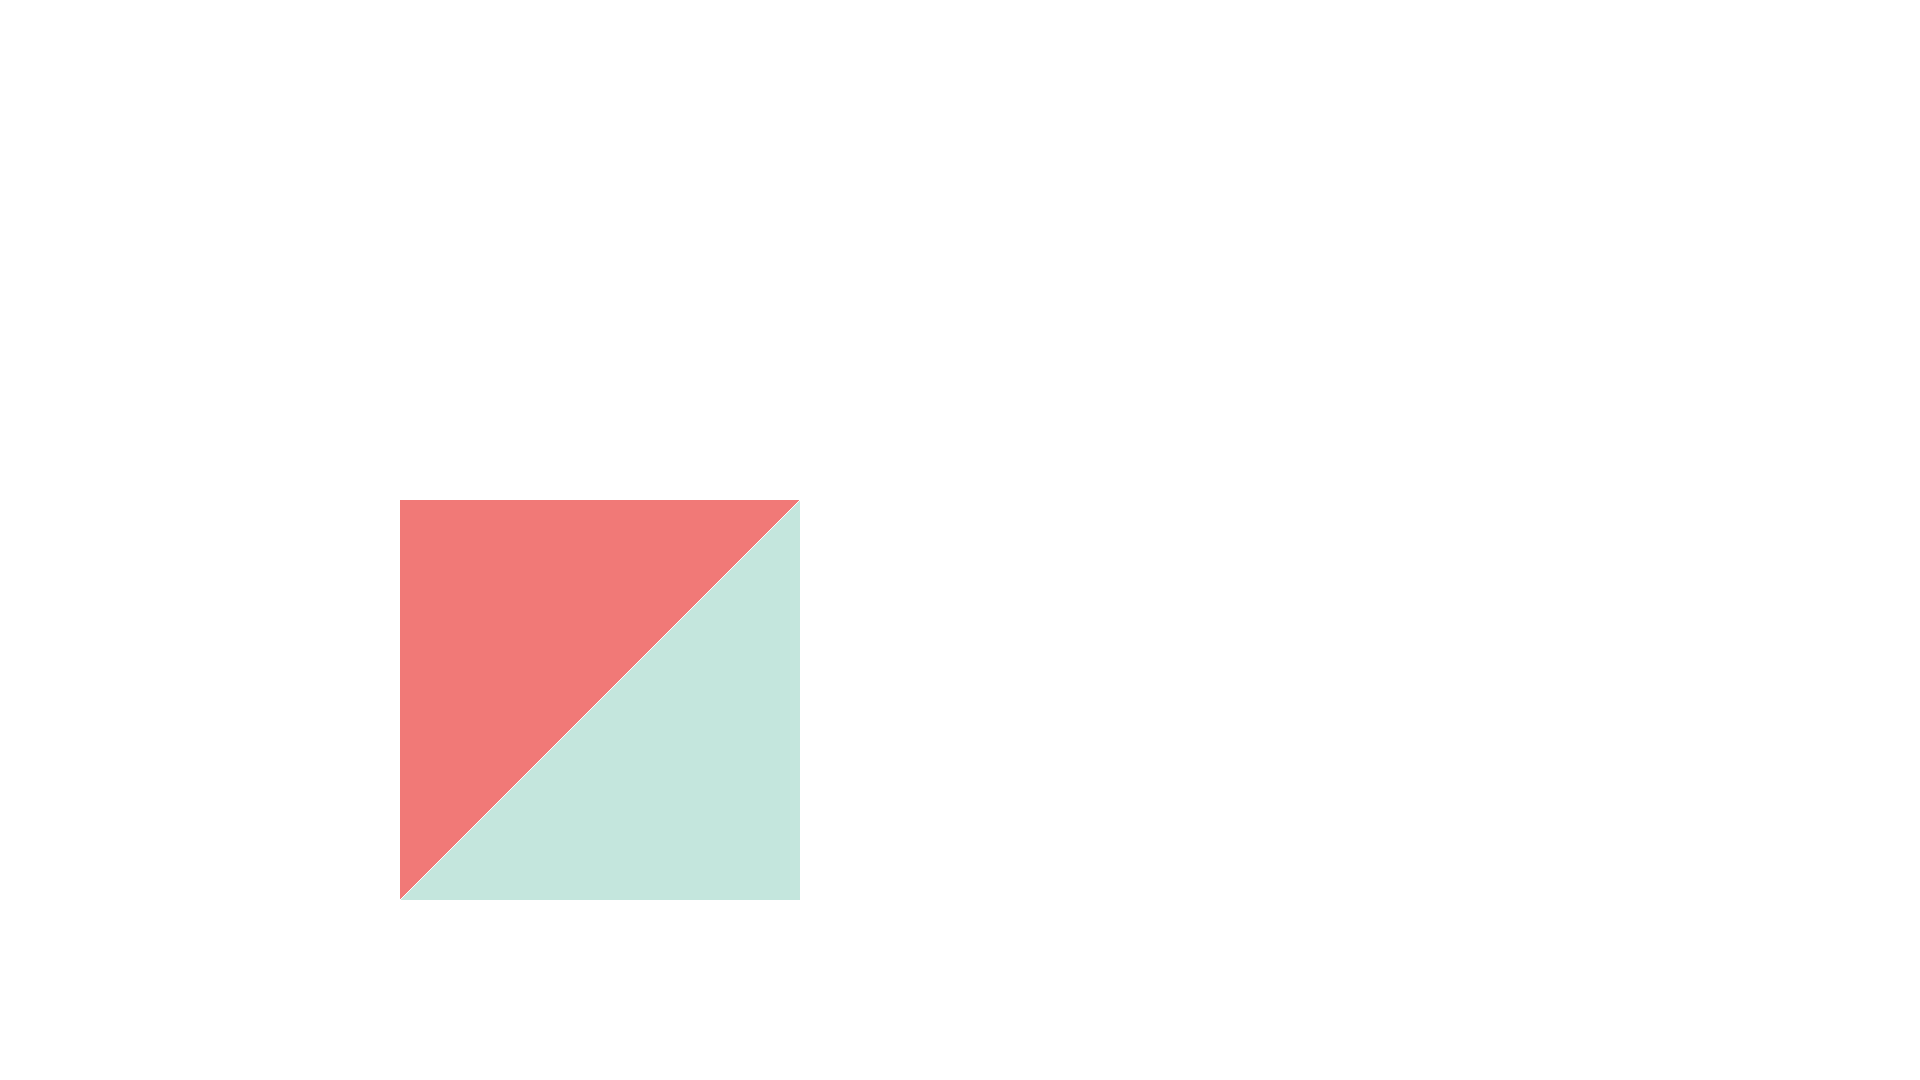
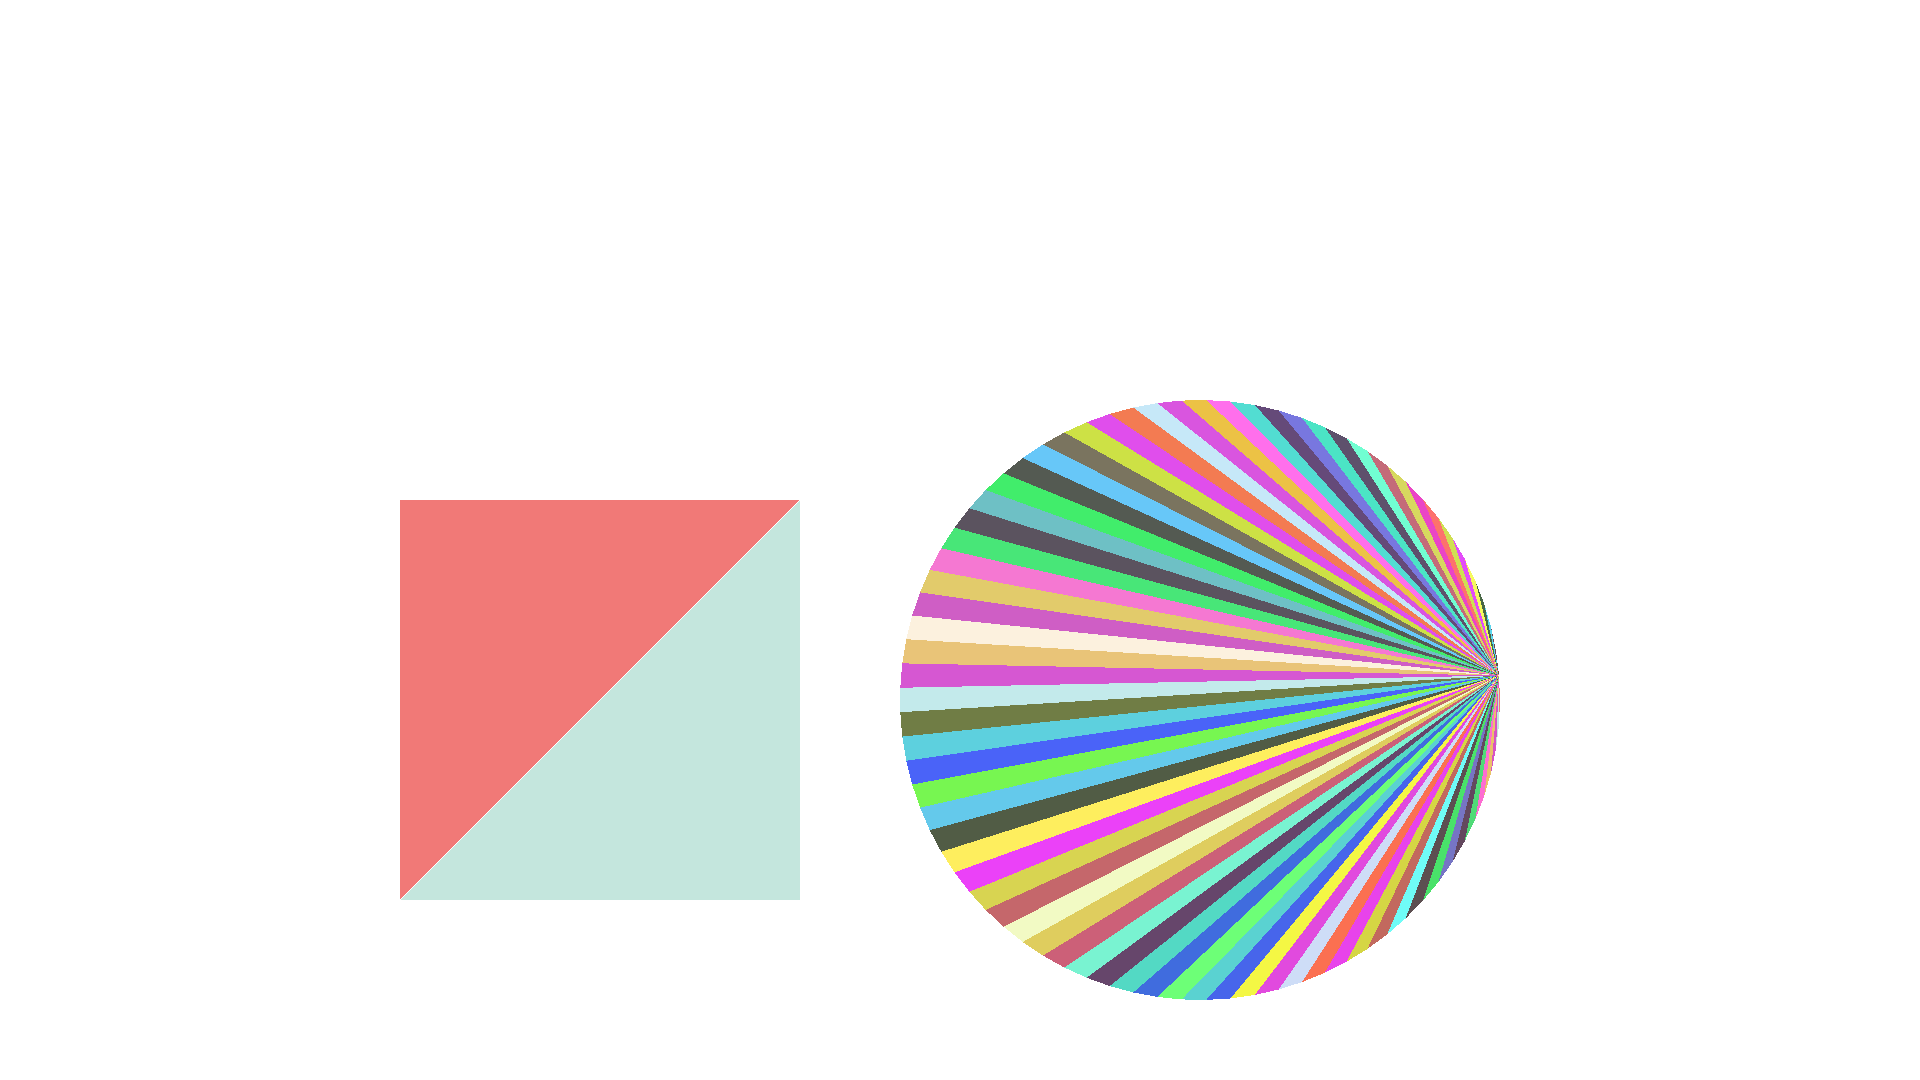
adds circles

Changed region(s): [[0.4688, 0.3667, 0.7812, 0.9472]]

diff --git a/vectorg.c b/vectorg.c
@@ -17,6 +17,8 @@
 #define FB_WIDTH 1920
 #endif
 
+#define PI 3.14159265358979323846f
+
 struct Vec2
 {
   float x;
@@ -98,6 +100,52 @@ bool box_to(struct Vec2 top_left, struct Vec2 bottom_right, struct Command_Array
   }
 
   cmd = (struct Command){.type = Command_Type_Close};
+  if (!command_array_push(cmds, cmd))
+  {
+    return false;
+  }
+
+  return true;
+}
+
+bool circle_to(struct Vec2 center, float radius, struct Command_Array* cmds)
+{
+  float const tolerance = 0.25f;
+
+  size_t segments;
+  if (radius <= tolerance)
+  {
+    segments = 8;
+  }
+  else
+  {
+    float arg = 1.0f - tolerance / radius;
+    if (arg < -1.0f)
+    {
+      arg = -1.0f;
+    }
+
+    segments = (size_t)ceilf(PI / acosf(arg));
+    if (segments < 8)
+    {
+      segments = 8;
+    }
+  }
+
+  float const step = 2.0f * PI / (float)segments;
+  for (size_t i = 0; i < segments; ++i)
+  {
+    float angle = step * (float)i;
+    struct Vec2 point = vec2_new(center.x + radius * cosf(angle), center.y + radius * sinf(angle));
+
+    struct Command cmd = (i == 0) ? command_move_to(point) : command_line_to(point);
+    if (!command_array_push(cmds, cmd))
+    {
+      return false;
+    }
+  }
+
+  struct Command cmd = (struct Command){.type = Command_Type_Close};
   if (!command_array_push(cmds, cmd))
   {
     return false;
@@ -328,6 +376,34 @@ void draw_indexed(uint32_t* fb, struct Vec2_Array vertices, struct UInt32_Array 
   }
 }
 
+bool render_shape(uint32_t* fb, struct Command_Array cmds)
+{
+  struct Contour contour = contour_new();
+  if (!contour_for(cmds, &contour))
+  {
+    fprintf(stderr, "failed to compute contour for shape\n");
+    contour_drop(&contour);
+    return false;
+  }
+
+  float winding = get_winding(contour);
+  struct UInt32_Array indices = uint32_array_new();
+
+  if (!triangulate(contour, winding, &indices))
+  {
+    fprintf(stderr, "failed to triangulate the shape\n");
+    uint32_array_drop(&indices);
+    contour_drop(&contour);
+    return false;
+  }
+
+  draw_indexed(fb, contour.vertices, indices);
+
+  uint32_array_drop(&indices);
+  contour_drop(&contour);
+  return true;
+}
+
 int main(int argc, char* argv[])
 {
   if (argc < 2)
@@ -354,32 +430,24 @@ int main(int argc, char* argv[])
     return 1;
   }
 
-  struct Contour contour = contour_new();
-  if (!contour_for(box, &contour))
+  struct Command_Array circle = {0};
+  if (!circle_to(vec2_new(1200, 700), 300, &circle))
   {
-    fprintf(stderr, "failed to compute contour for shape\n");
+    fprintf(stderr, "failed to construct commands for circle\n");
     command_array_drop(&box);
     free(fb);
     return 1;
   }
 
-  float winding = get_winding(contour);
-  struct UInt32_Array indices = uint32_array_new();
-
-  if (!triangulate(contour, winding, &indices))
+  if (!render_shape(fb, box) || !render_shape(fb, circle))
   {
-    fprintf(stderr, "failed to triangulate the shape\n");
-
-    contour_drop(&contour);
+    command_array_drop(&circle);
     command_array_drop(&box);
     free(fb);
     return 1;
   }
 
-  draw_indexed(fb, contour.vertices, indices);
-
-  uint32_array_drop(&indices);
-  contour_drop(&contour);
+  command_array_drop(&circle);
   command_array_drop(&box);
 
   stbi_write_png(argv[1], FB_WIDTH, FB_HEIGHT, sizeof(uint32_t), fb, FB_WIDTH * sizeof(uint32_t));

diff --git a/README.md b/README.md
@@ -1,0 +1,15 @@
+# vectorg
+
+Me learning how triangulation and tessellation work, in C.
+
+Builds shapes from path commands, flattens them into polygon contours,
+triangulates with ear clipping, and rasterizes the triangles into a PNG.
+
+## Build & run
+
+```sh
+make
+./vectorg out.png
+```
+
+![out.png](out.png)